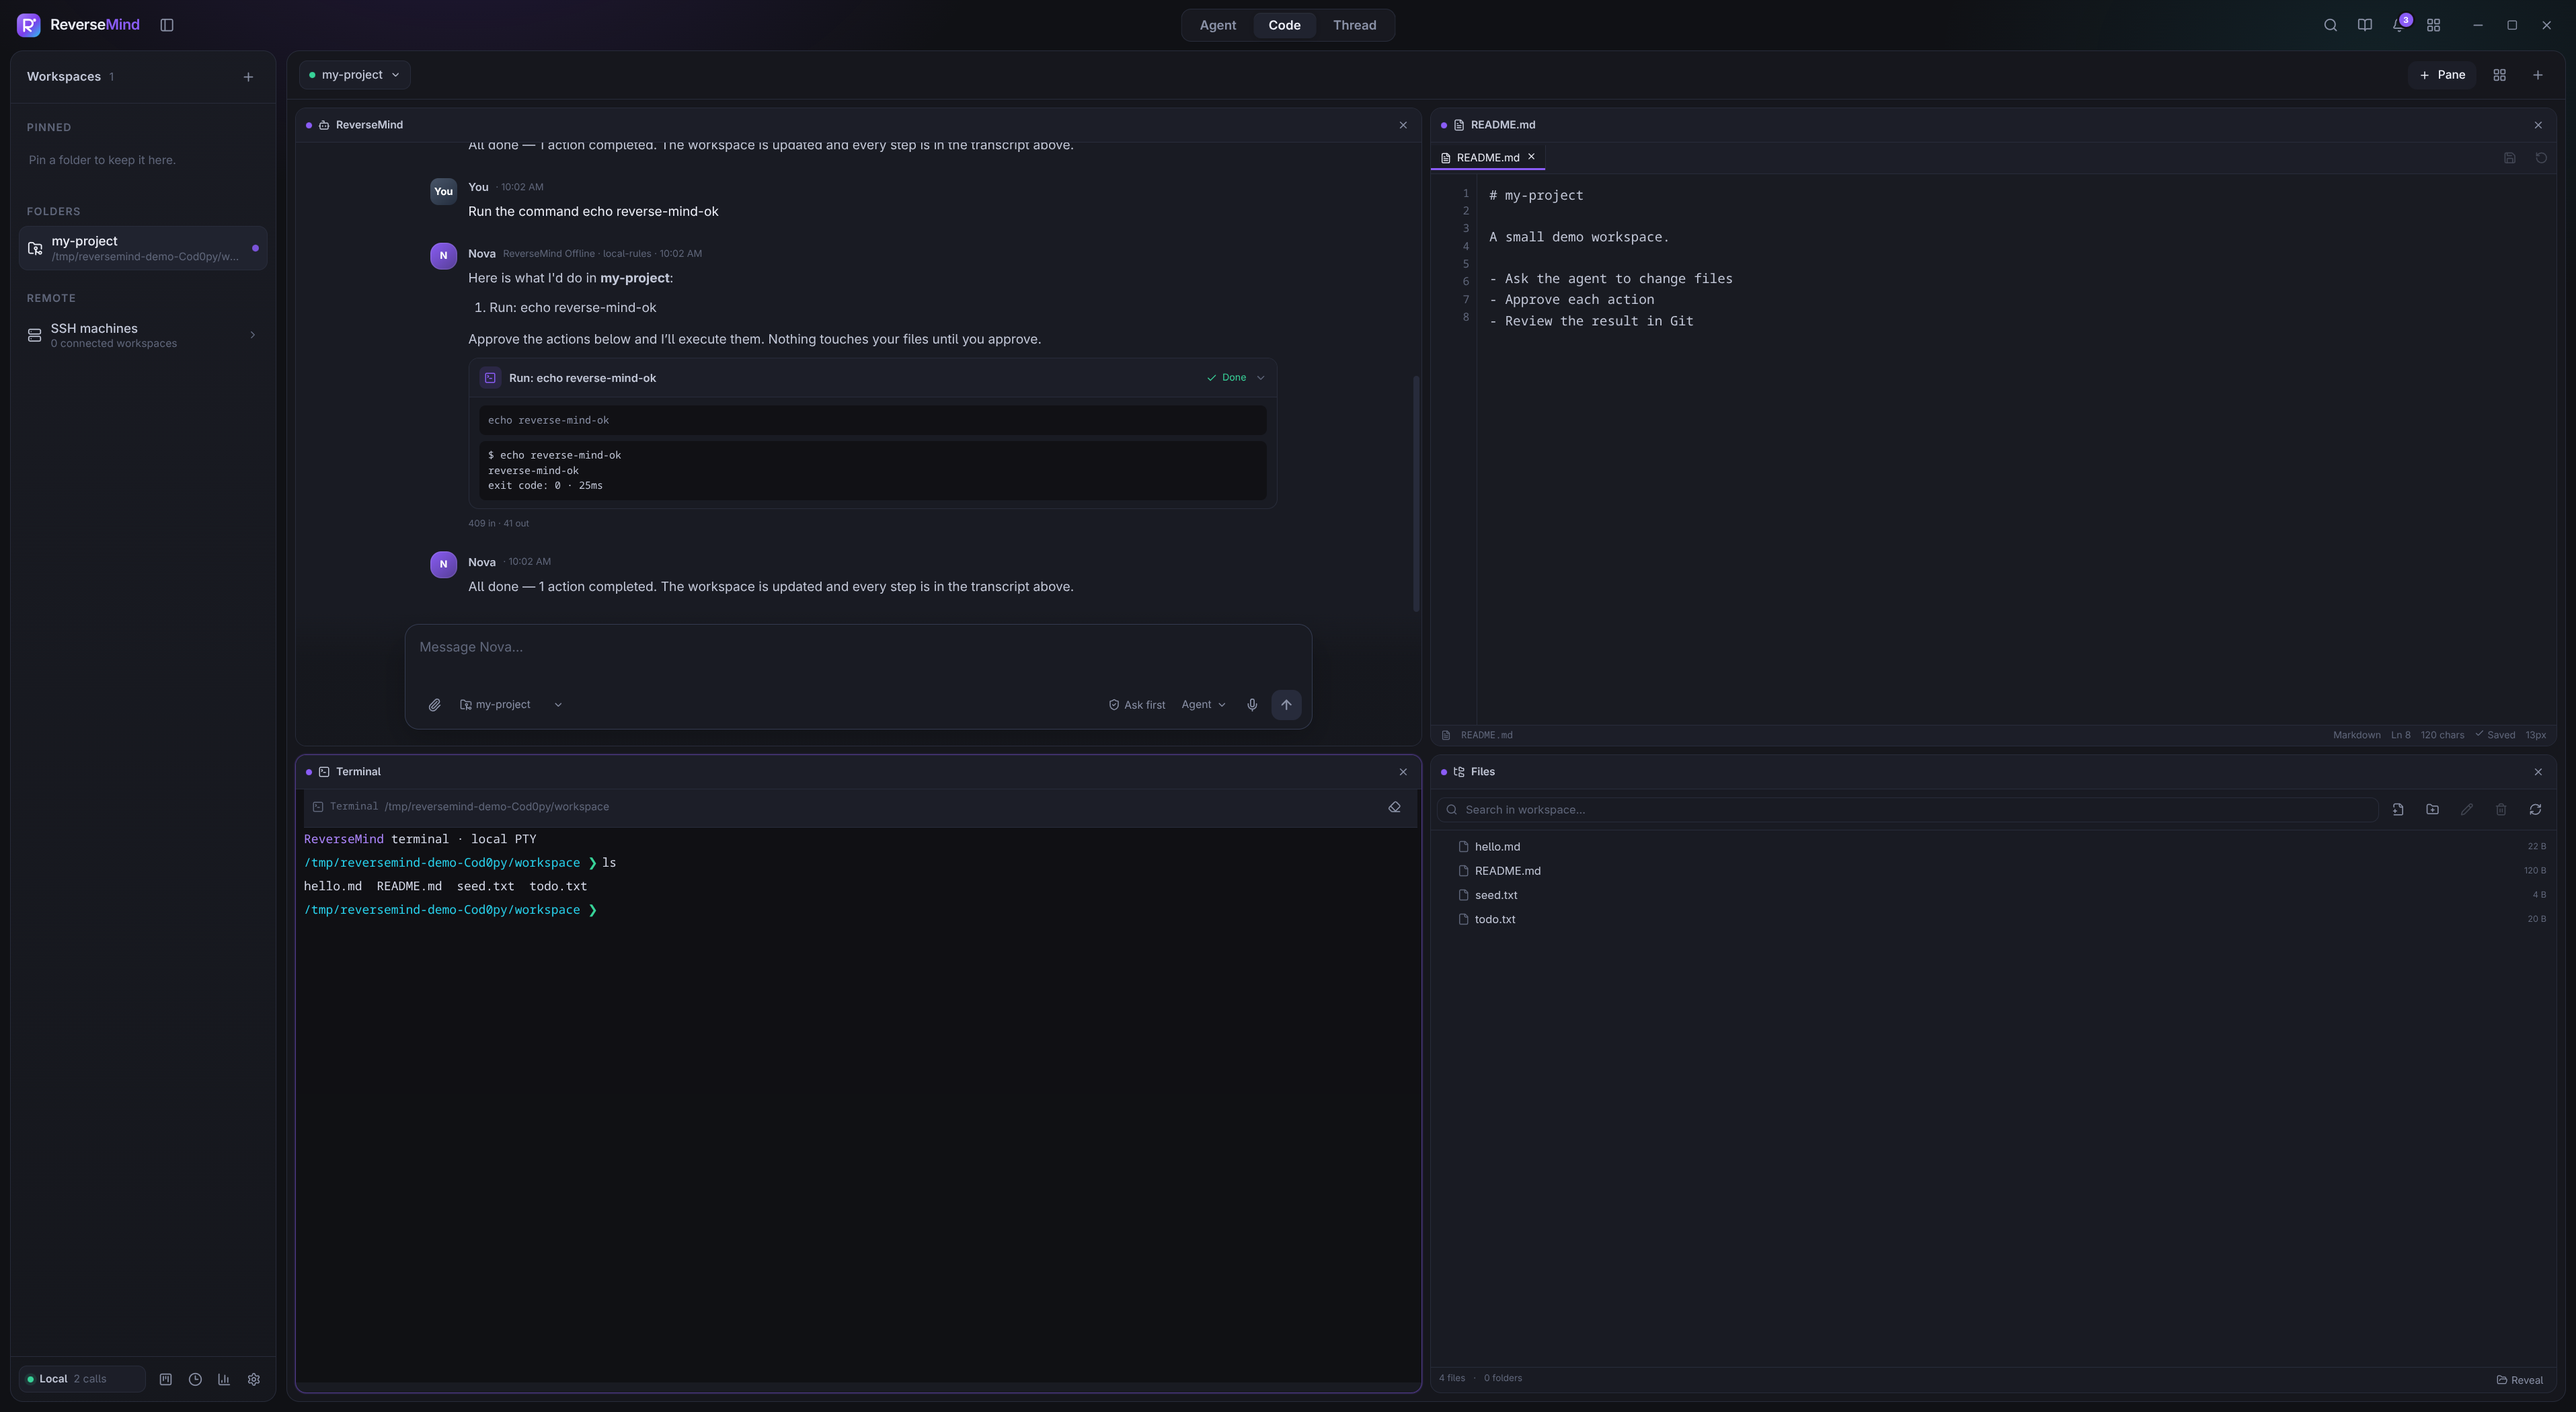
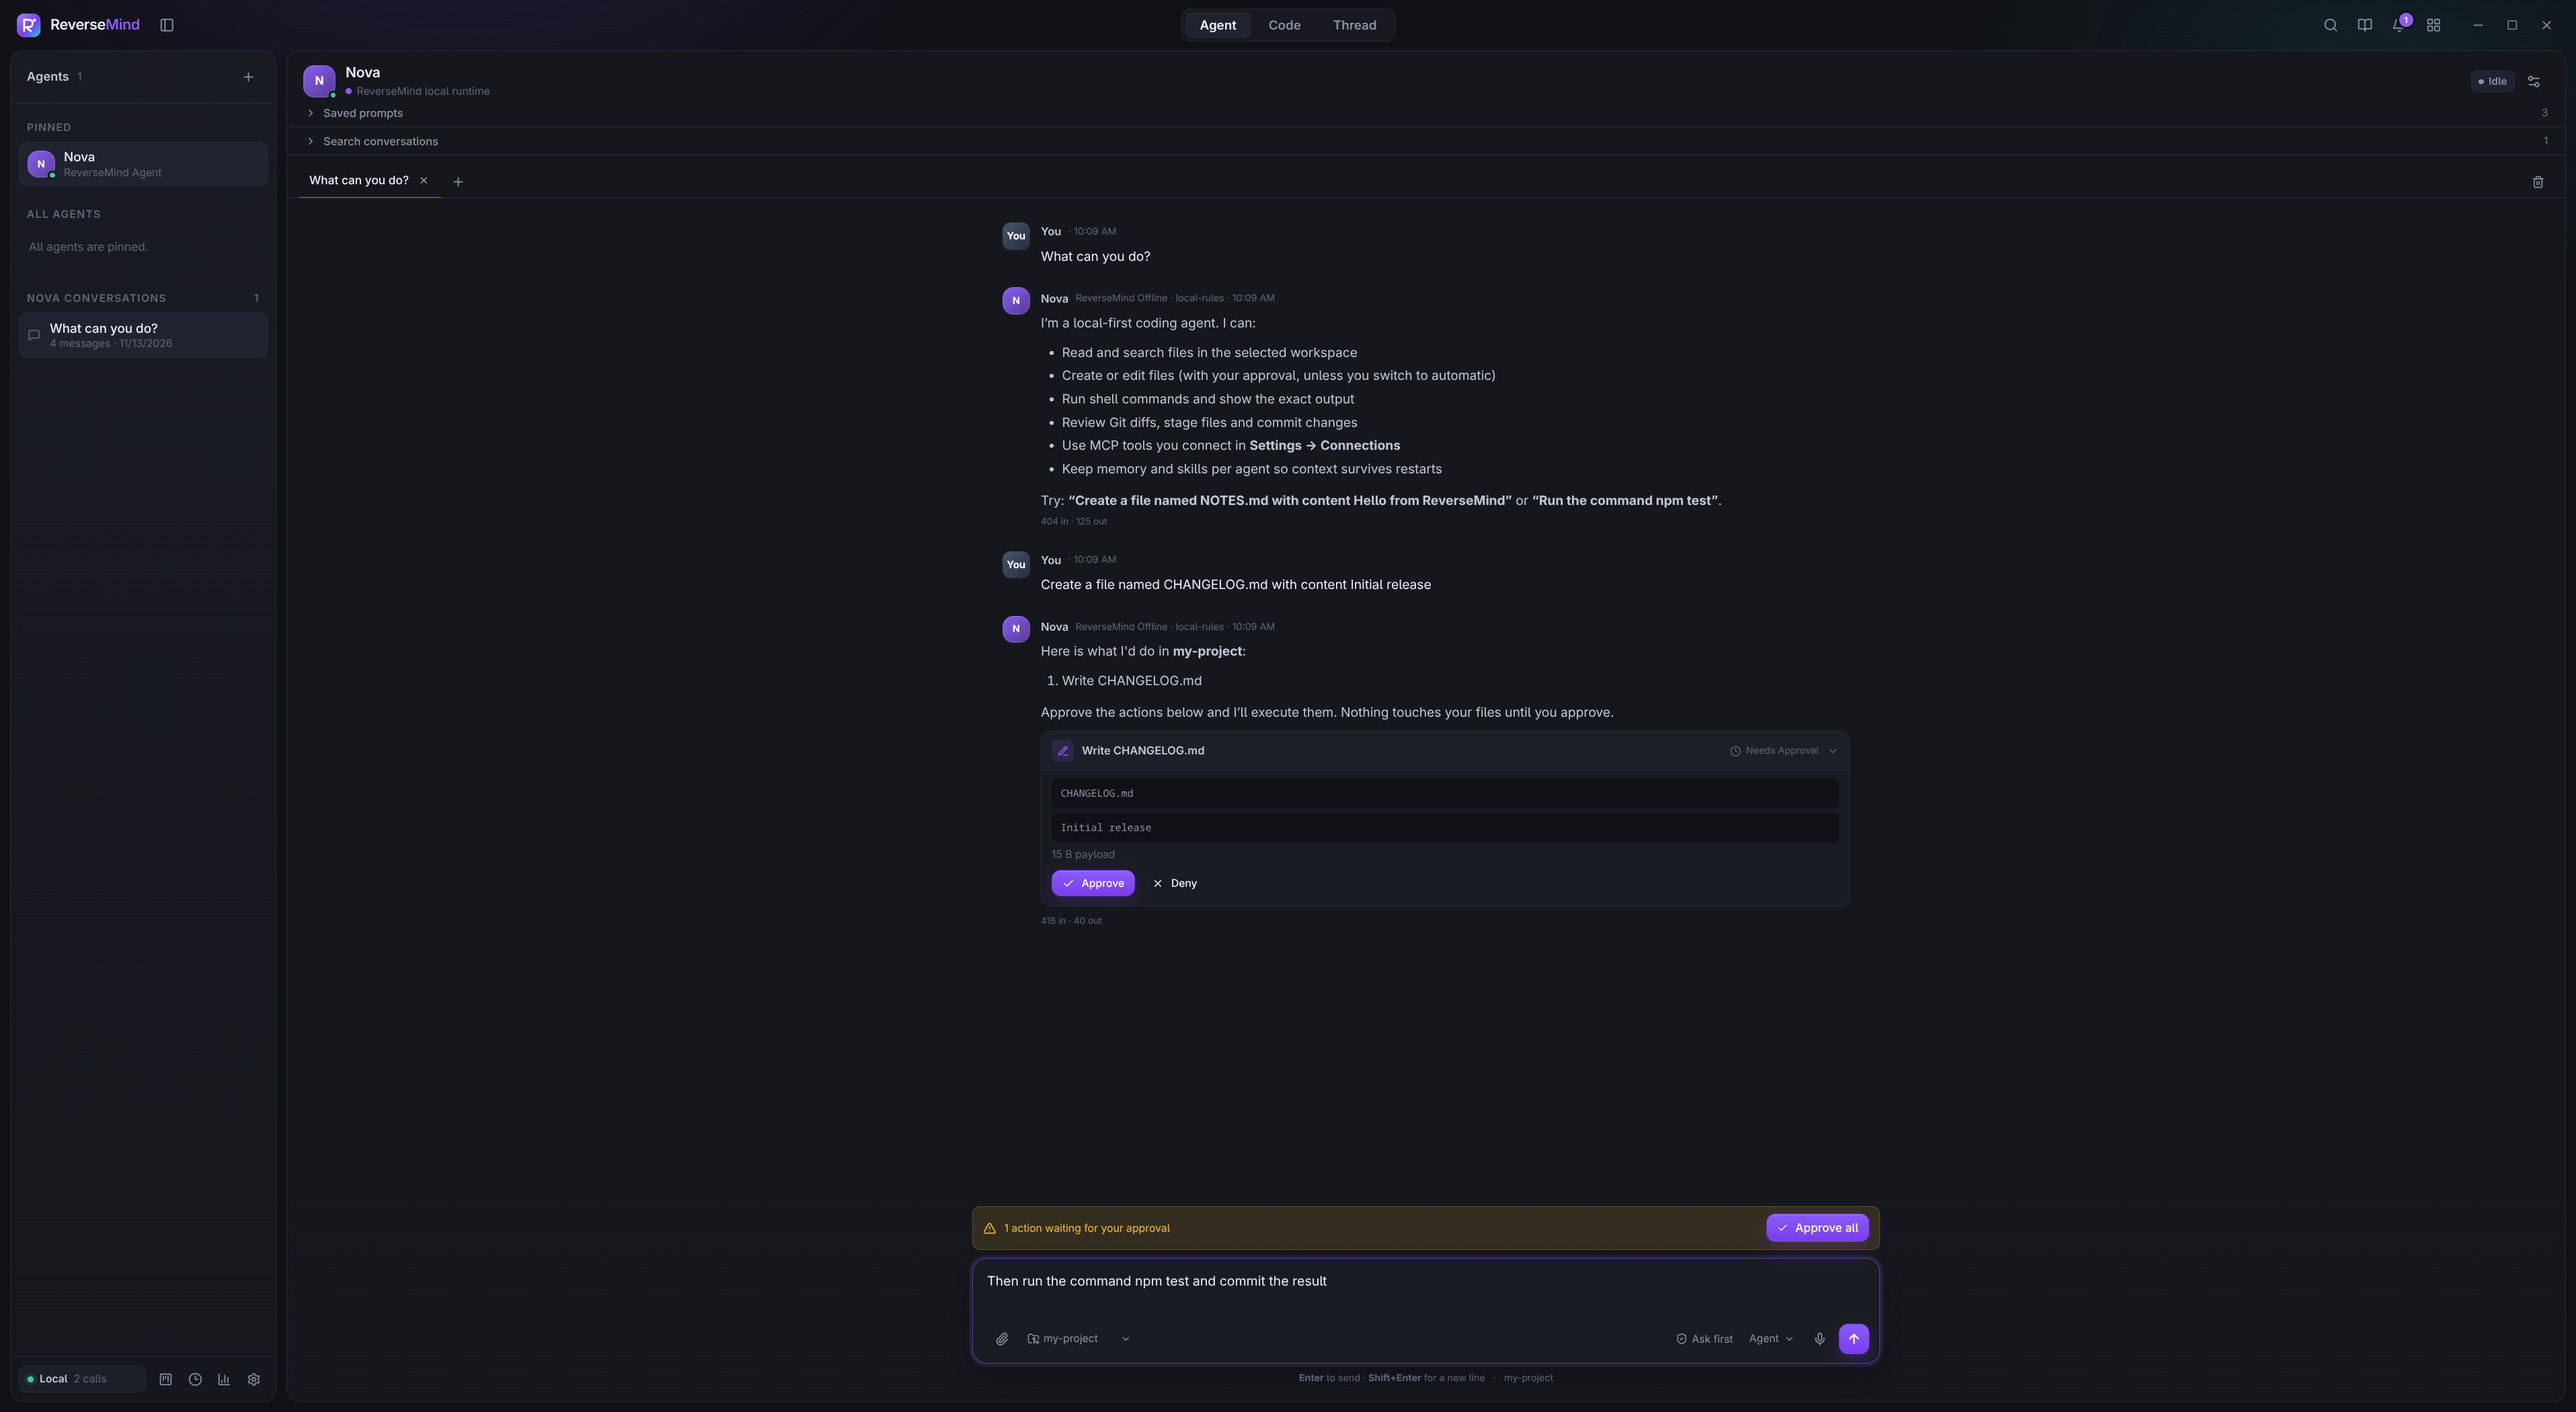
Fix CI Electron download and retake README screenshot
- Add a postinstall that downloads the Electron binary when npm skips its
  install script (the lockfile has no install-script flag for electron, so
  a clean npm ci left no binary and every Electron test failed).
- Screenshot now shows the Agent view: capability answer, a pending
  Approve/Deny file-write card and a drafted prompt at the bottom.

diff --git a/e2e/screenshot.spec.ts b/e2e/screenshot.spec.ts
@@ -1,42 +1,38 @@
 import { test, expect } from '@playwright/test';
 import fs from 'node:fs';
 import path from 'node:path';
-import { CHAT_ID, closeHarness, launchApp } from './helpers';
+import { closeHarness, launchApp } from './helpers';
 
 // Regenerates docs/screenshot.png. Run: RM_SCREENSHOT=1 npx playwright test e2e/screenshot.spec.ts
 test.skip(!process.env.RM_SCREENSHOT, 'set RM_SCREENSHOT=1 to regenerate the README screenshot');
 
 test('capture README screenshot', async () => {
   const harness = await launchApp({
-    mode: 'code',
+    mode: 'agent',
     workspaceName: 'my-project',
-    settings: { agentApproval: 'auto' },
+    settings: { agentApproval: 'ask' },
+    autopilot: false,
     prepare: (dir) => {
-      fs.writeFileSync(path.join(dir, 'README.md'), '# my-project\n\nA small demo workspace.\n\n- Ask the agent to change files\n- Approve each action\n- Review the result in Git\n');
+      fs.writeFileSync(path.join(dir, 'README.md'), '# my-project\n');
       fs.writeFileSync(path.join(dir, 'todo.txt'), 'write tests\nship it\n');
     },
-    panes: [
-      { id: 'p-chat', type: 'chat', title: 'ReverseMind', chatId: CHAT_ID },
-      { id: 'p-editor', type: 'editor', title: 'README.md', filePath: 'README.md', tabs: ['README.md'] },
-      { id: 'p-term', type: 'terminal', title: 'Terminal', engine: 'terminal' },
-      { id: 'p-files', type: 'files', title: 'Files' },
-    ],
   });
   const { page, app } = harness;
   try {
-    await app.evaluate(({ BrowserWindow }) => BrowserWindow.getAllWindows()[0].setSize(1360, 860));
+    await app.evaluate(({ BrowserWindow }) => BrowserWindow.getAllWindows()[0].setSize(1280, 1240));
     const input = page.locator('[data-testid="composer-input"]').first();
-    await input.fill('Create a file named hello.md with content Hello from ReverseMind');
+    const messages = page.locator('[data-testid="chat-messages"]').first();
+
+    await input.fill('What can you do?');
     await input.press('Enter');
-    await expect(page.locator('[data-testid="chat-messages"]').first()).toContainText('All done', { timeout: 15_000 });
-    await input.fill('Run the command echo reverse-mind-ok');
+    await expect(messages).toContainText('local-first coding agent', { timeout: 15_000 });
+
+    await expect(page.locator('[data-testid="composer-send"]')).toHaveAttribute('title', 'Send message'); // reply finished
+    await input.fill('Create a file named CHANGELOG.md with content Initial release');
     await input.press('Enter');
-    await expect(page.locator('[data-testid="chat-messages"]').first()).toContainText('reverse-mind-ok', { timeout: 15_000 });
-    await page.waitForTimeout(1500);
-    await page.getByLabel('Refresh files').click();
-    const host = page.locator('[data-testid="terminal-host"]');
-    await host.click();
-    await page.keyboard.type('ls\n');
+    await expect(page.locator('[data-testid^="approve-"]').first()).toBeVisible({ timeout: 15_000 });
+
+    await input.fill('Then run the command npm test and commit the result');
     await page.waitForTimeout(800);
     await page.screenshot({ path: path.join(process.cwd(), 'docs', 'screenshot.png') });
   } finally {

diff --git a/e2e/helpers.ts b/e2e/helpers.ts
@@ -21,6 +21,8 @@ export interface LaunchOptions {
   prepare?: (workspacePath: string) => void;
   /** Display name for the seeded workspace (also switches the temp folder prefix). */
   workspaceName?: string;
+  /** Override the seeded agent's autopilot (on by default, which auto-runs a few tools). */
+  autopilot?: boolean;
   task?: boolean;
 }
 
@@ -42,6 +44,7 @@ export async function launchApp(options: LaunchOptions = {}): Promise<Harness> {
 
   const state = createDefaultState();
   const agent = state.agents[0];
+  if (options.autopilot !== undefined) agent.autopilot = options.autopilot;
   const now = Date.now();
   state.settings = {
     ...state.settings,

diff --git a/README.md b/README.md
@@ -2,7 +2,7 @@
 
 **A local-first agent workspace for Linux.** Coding agents, real terminals, an editor, Git review, an embedded browser, tickets, routines and MCP servers in one Electron app. No account, no hosted gateway, no telemetry.
 
-![ReverseMind: agent chat, editor, terminal and files in one workspace](docs/screenshot.png)
+![ReverseMind: ask the agent, review each proposed action, approve or deny it](docs/screenshot.png)
 
 ## Features
 
